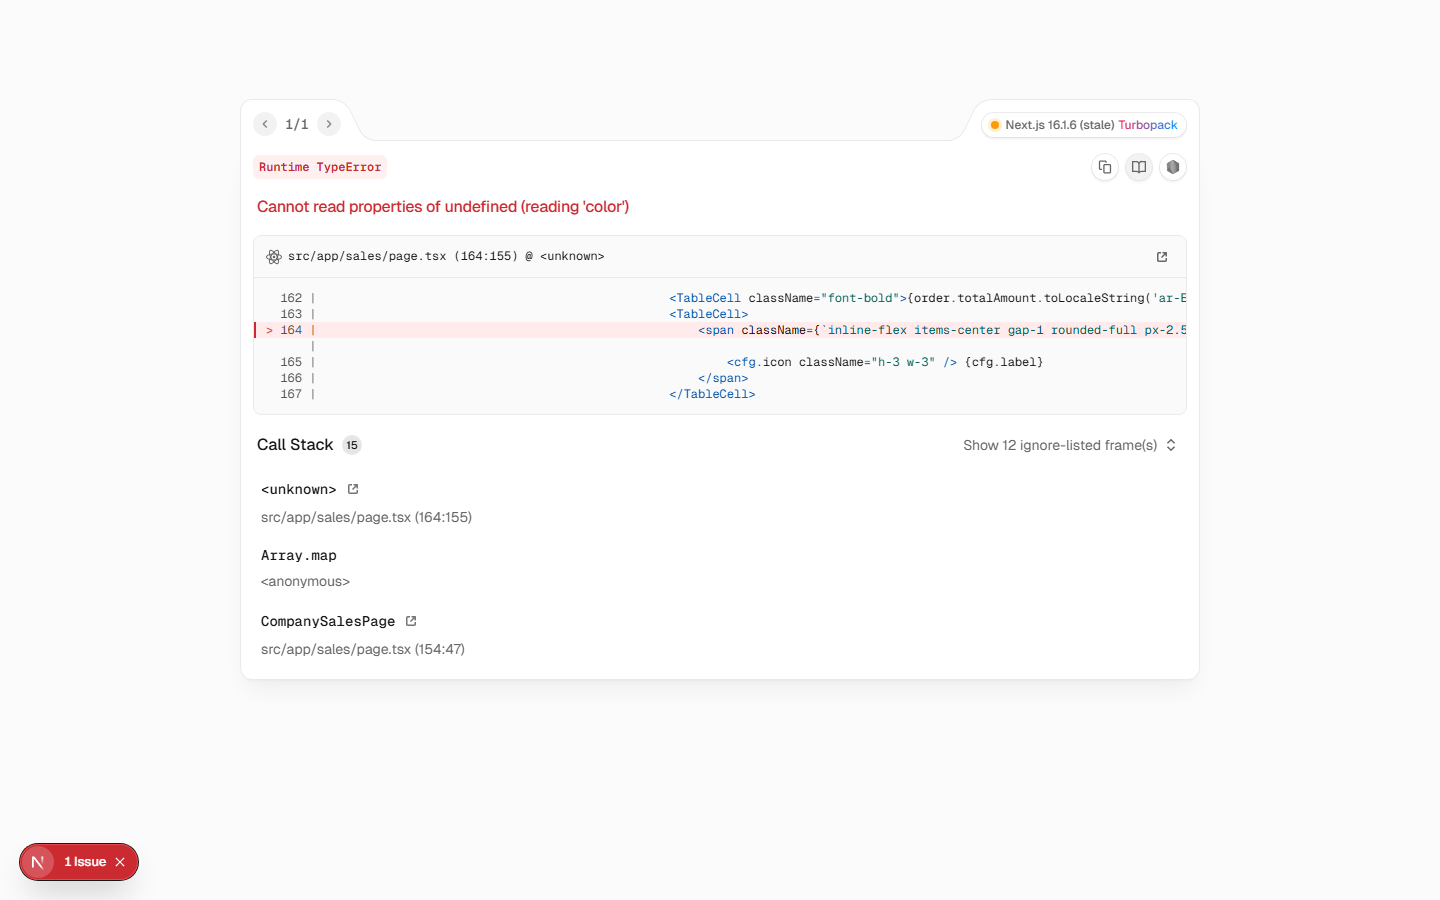
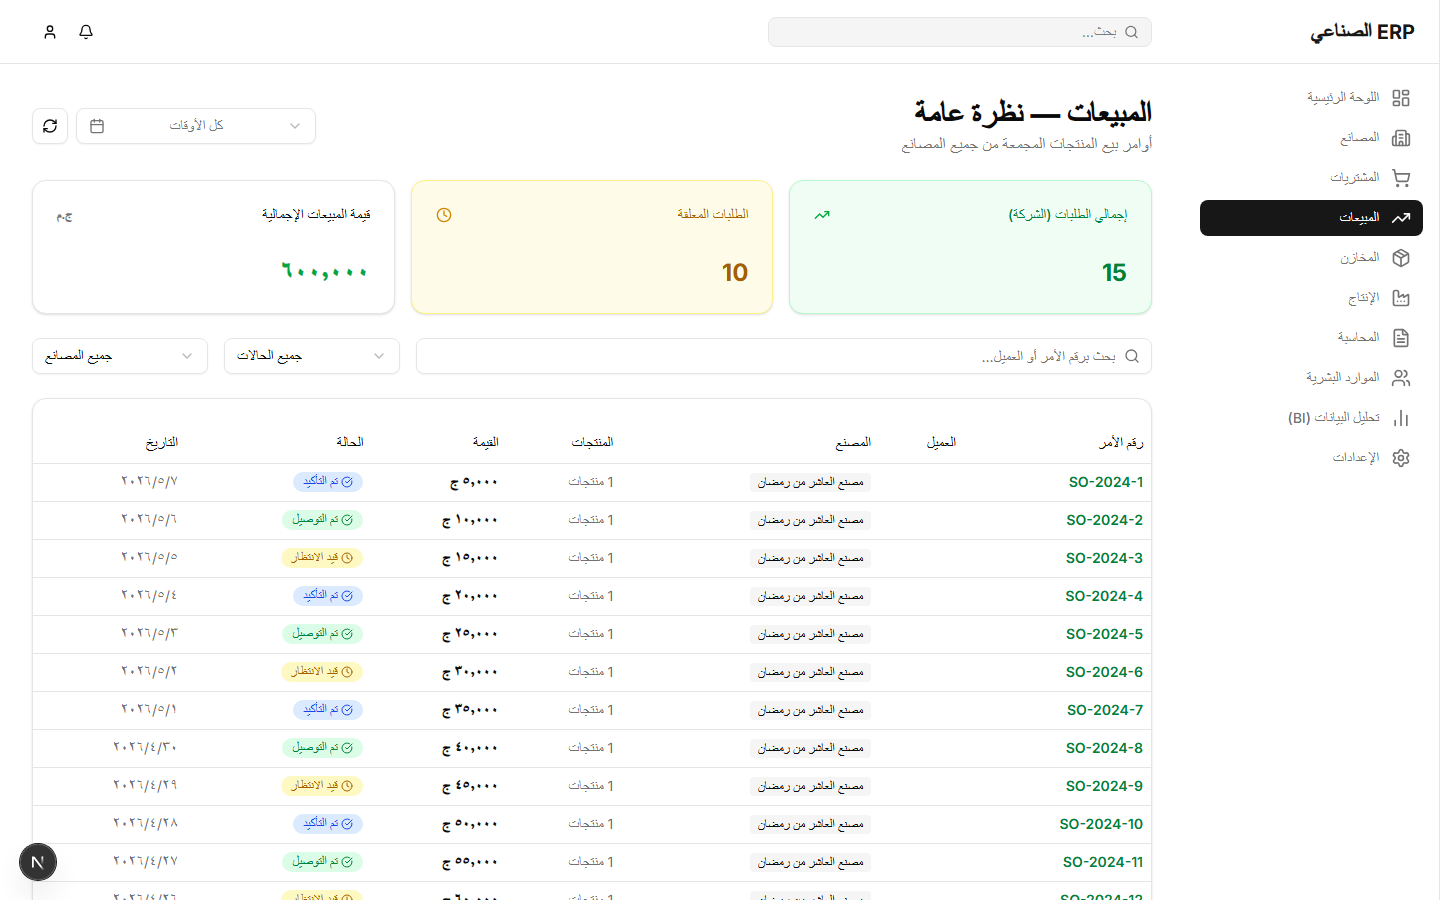
feat: added factory department dashboard and detailed BI report views

diff --git a/README.md b/README.md
@@ -30,8 +30,12 @@
 ### 🏠 Executive Dashboard
 ![Dashboard](./screenshots/dashboard.png)
 
-### 📊 BI Report Engine — 22 Pre-built Reports + Custom Queries
+### 📊 BI Report Engine — 22 Pre-built Reports
 ![BI Engine](./screenshots/bi.png)
+
+### 📈 Detailed Report Builder & Ad-hoc Queries
+![BI Detailed](./screenshots/bi_detailed.png)
+![BI Custom](./screenshots/bi_custom.png)
 
 ### 💰 Accounting — Journal Entries, Chart of Accounts, Financial Reports
 ![Accounting](./screenshots/accounting.png)
@@ -50,6 +54,9 @@
 
 ### 📋 Purchasing & Procurement
 ![Purchasing](./screenshots/purchasing.png)
+
+### 🏢 Factory-Level Dashboard (Department Grid)
+![Factory Dashboard](./screenshots/factory_dashboard.png)
 
 ---
 